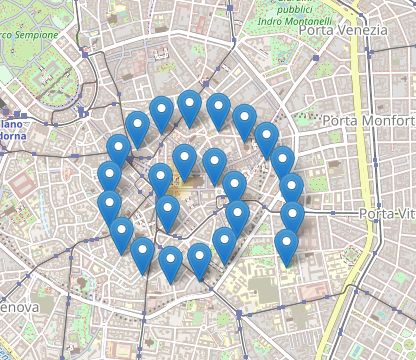
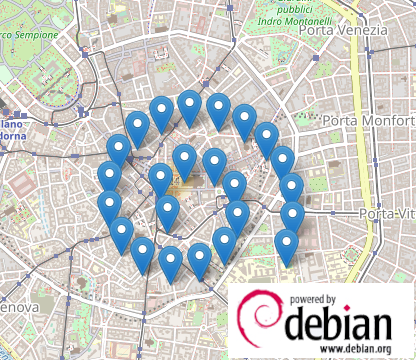
Edit ntopng-fritzbox-monitoring: clarify Debian
As someone on HackerNews said something very creative
on the shape at the end of the post, I wanted to clarify.

Changed region(s): [[0.5312, 0.7639, 1.0, 1.0]]

diff --git a/content/english/post/self-hosting/ntopng-fritzbox-monitoring.md b/content/english/post/self-hosting/ntopng-fritzbox-monitoring.md
@@ -266,4 +266,4 @@ Something funny was discovering that the geo-location of some contacted IPs in M
 
 ![A funny disposition of some geolocated servers in Milan, in which a spiral shape is formed](/images/post/self-hosting/ntopng-fritzbox-monitoring/funny-ip-geolocation-milan.png)
 
-Did I find an hidden message? :-P
+Maybe someone there is an avid Debian fan; or perhaps a big Fibonacci fan :-D
